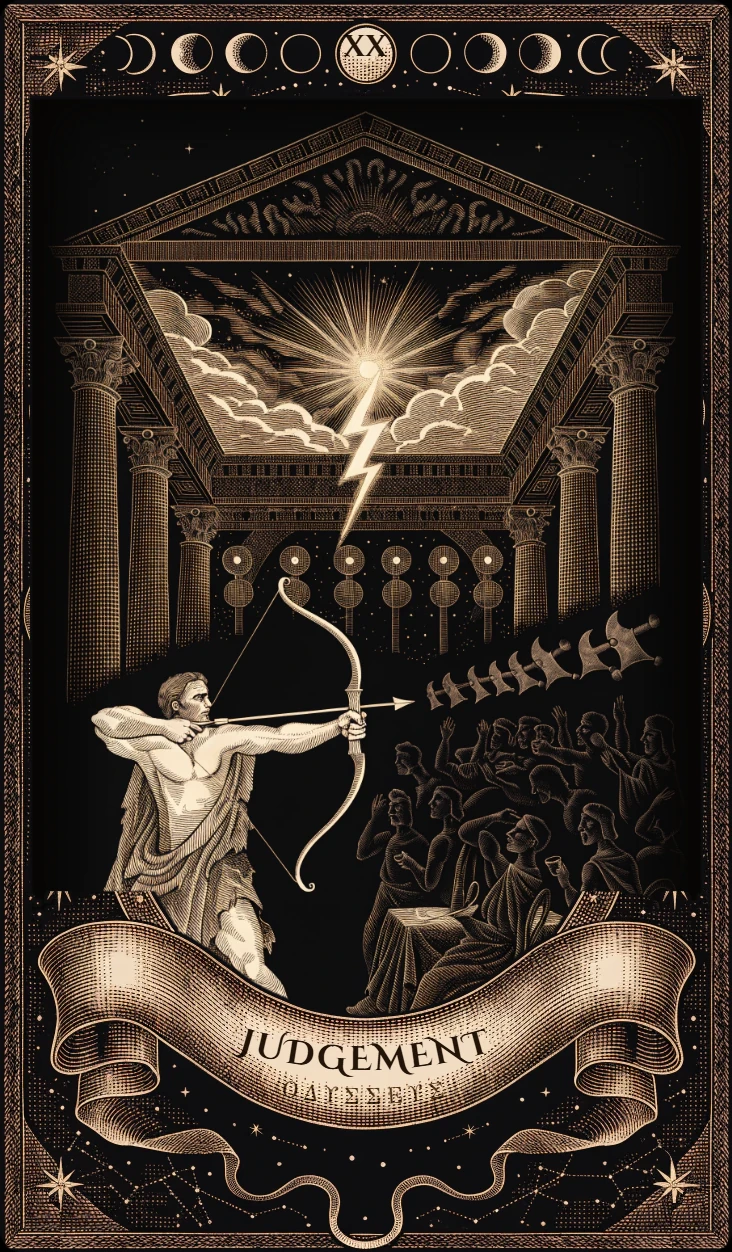
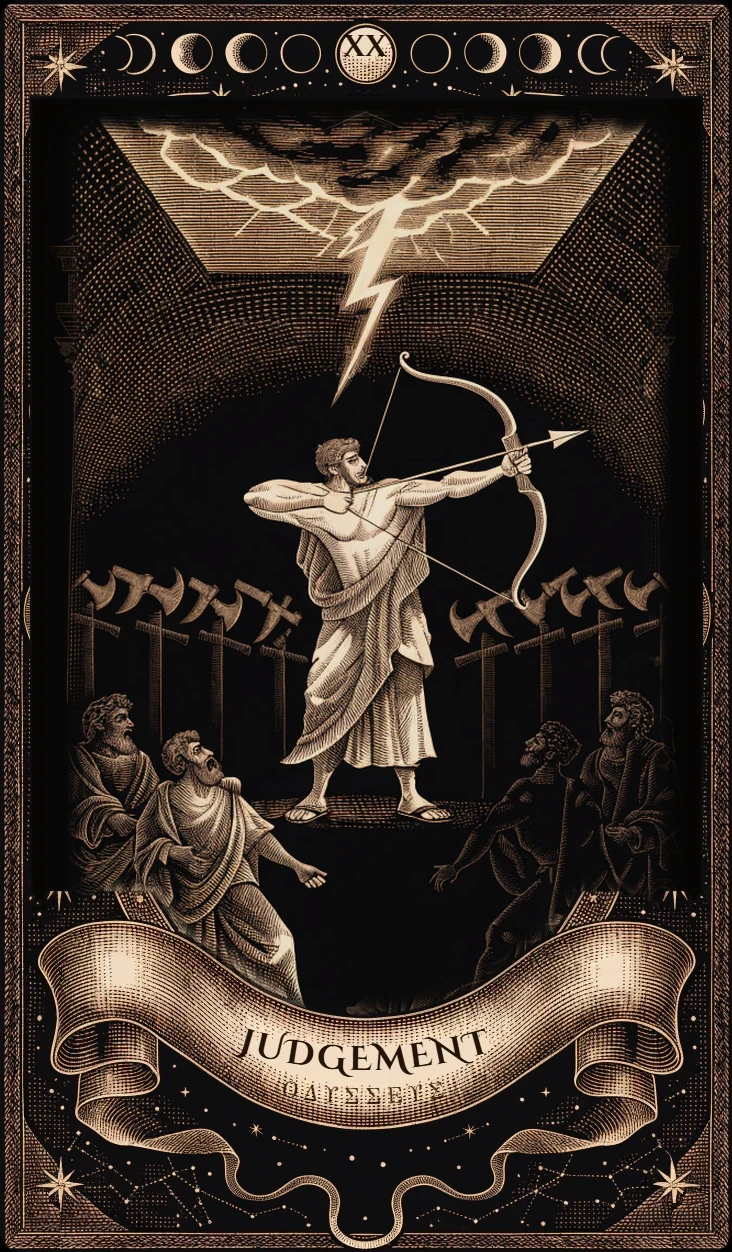
審判正逆位重畫：同一張圖並排生成後裁切，畫風與其他牌一致
Claude-Session: https://claude.ai/code/session_01QtozHP4e8XUX6JxbuiPicL

diff --git a/指示清單.md b/指示清單.md
@@ -84,5 +84,5 @@
 | 75 | 11-27 | 「左徑、右徑」等用詞沒人看得懂；保留神祕感但要讓人懂 | ✅ | 牌位名旁加白話小字（左徑・第一個選擇、神示・先看清的事、往昔・從前…）；牌陣說明、低語、古法解讀、AI 稱呼都改寫 |
 | 76 | 11-27 | 還有很多 AI 用詞（「一週內就講」「你的本事不缺」「不是 A 是 B」、叫人一條條寫下來等鼓勵口吻），要像正常人日常交談 | ✅ | 提示詞重寫「說話的方式」：像真的人在聊天、說看到的不開處方、不排期限、不派功課、不打氣、不評價、禁「不是A是B」所有變形；附對照例句；AI人設.md 同步 |
 | 77 | 11-27 | 卡圖有三隻腳的，請重做 | ✅ | 逐張檢查 44 張並列出總表給需求方確認，沒有找到；需求方確認是記錯，卡圖維持原樣。之後若重畫，正逆位要一起生成 |
-| 78 | 11-27 | 審判卡圖畫風不搭 | ✅ | 試畫一版後需求方決定維持原圖 |
-
+| 78 | 11-27 | 審判卡圖畫風不搭；正逆位要一起產出再裁切 | ✅ | 用卡牌自訂風格在同一張圖裡並排生成正位（拉弓穿斧）與逆位（海上被忘憂島、塞壬耽擱），裁成兩半合回金框／黑框 |
+| 79 | 11-27 | 隱士的卡圖與寓意不滿意，考慮改用回聲（厄科） | 🔧 | 等需求方定故事 |
